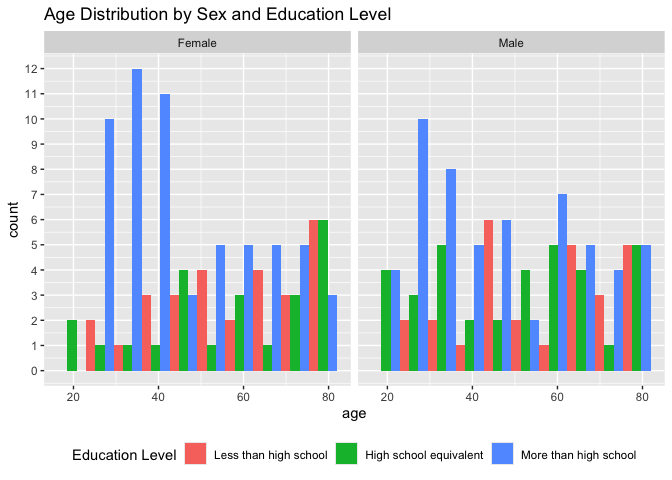
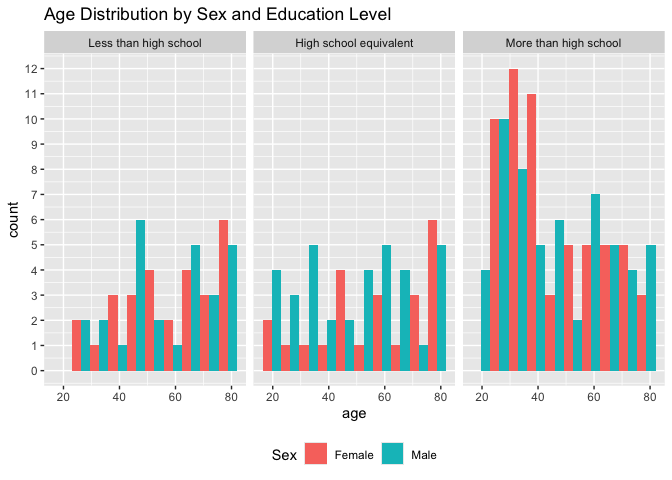
create plot for total activity throughout the day

diff --git a/p8105_hw3_mk4995.md b/p8105_hw3_mk4995.md
@@ -85,13 +85,13 @@ each education category.*
 ``` r
 merged_df |> 
   distinct(seqn, .keep_all = TRUE) |> # keep all columns but identify unique seq numbers
-  ggplot(aes(x = age, fill = education)) +
+  ggplot(aes(x = age, fill = sex)) +
   geom_histogram(position = "dodge", bins = 10) +
-  facet_grid(. ~ sex) + 
+  facet_grid(. ~ education) + 
   theme(legend.position = "bottom") +
   labs(
     title = "Age Distribution by Sex and Education Level",
-    fill = "Education Level"
+    fill = "Sex"
   ) +
   scale_y_continuous(breaks = scales::pretty_breaks(n = 10))
 ```
@@ -110,16 +110,6 @@ ages.
 
 *Using your tidied dataset, aggregate across minutes to create a total
 activity variable for each participant.*
-
-``` r
-trial_df = 
-  merged_df |> 
-  group_by(seqn) |> 
-  summarize(
-    total_mims = sum(mims, na.rm = TRUE)
-  ) |> 
-  distinct(seqn, .keep_all = TRUE)
-```
 
 ``` r
 merged_df |> 
@@ -144,5 +134,25 @@ merged_df |>
     ## `summarise()` has grouped output by 'seqn', 'sex', 'age'. You can override
     ## using the `.groups` argument.
     ## `geom_smooth()` using method = 'loess' and formula = 'y ~ x'
+
+![](p8105_hw3_mk4995_files/figure-gfm/unnamed-chunk-2-1.png)<!-- -->
+
+Females tend to have a higher total activity level than males in all
+panels. Overall, in all education categories, there is a general decline
+in total activity as age increases, especially noticeable after the age
+of 60. This trend is consistent for both males and females, with some
+fluctuations before age 60 depending on the education level. Individuals
+with higher education tend to show a more gradual decline in activity
+compared to those with less education.
+
+``` r
+merged_df |> 
+  group_by(sex, education) |> 
+  ggplot(aes(x = minute_interval, y = mims, color = sex)) +
+  geom_line(se = FALSE) + 
+  facet_grid(. ~ education)
+```
+
+    ## Warning in geom_line(se = FALSE): Ignoring unknown parameters: `se`
 
 ![](p8105_hw3_mk4995_files/figure-gfm/unnamed-chunk-3-1.png)<!-- -->
